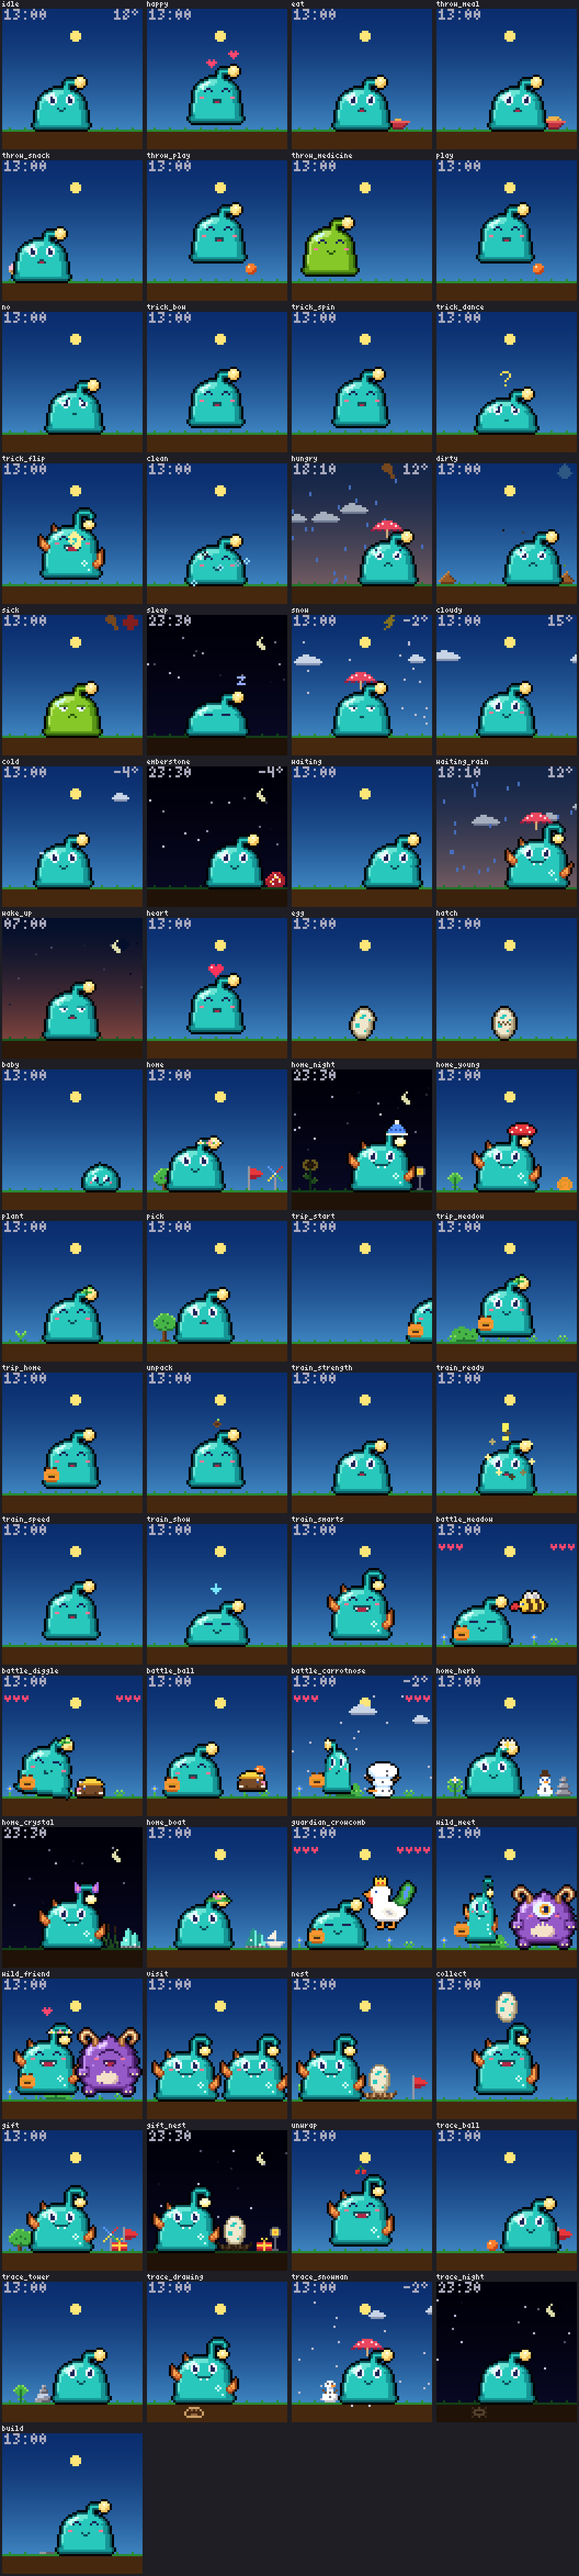
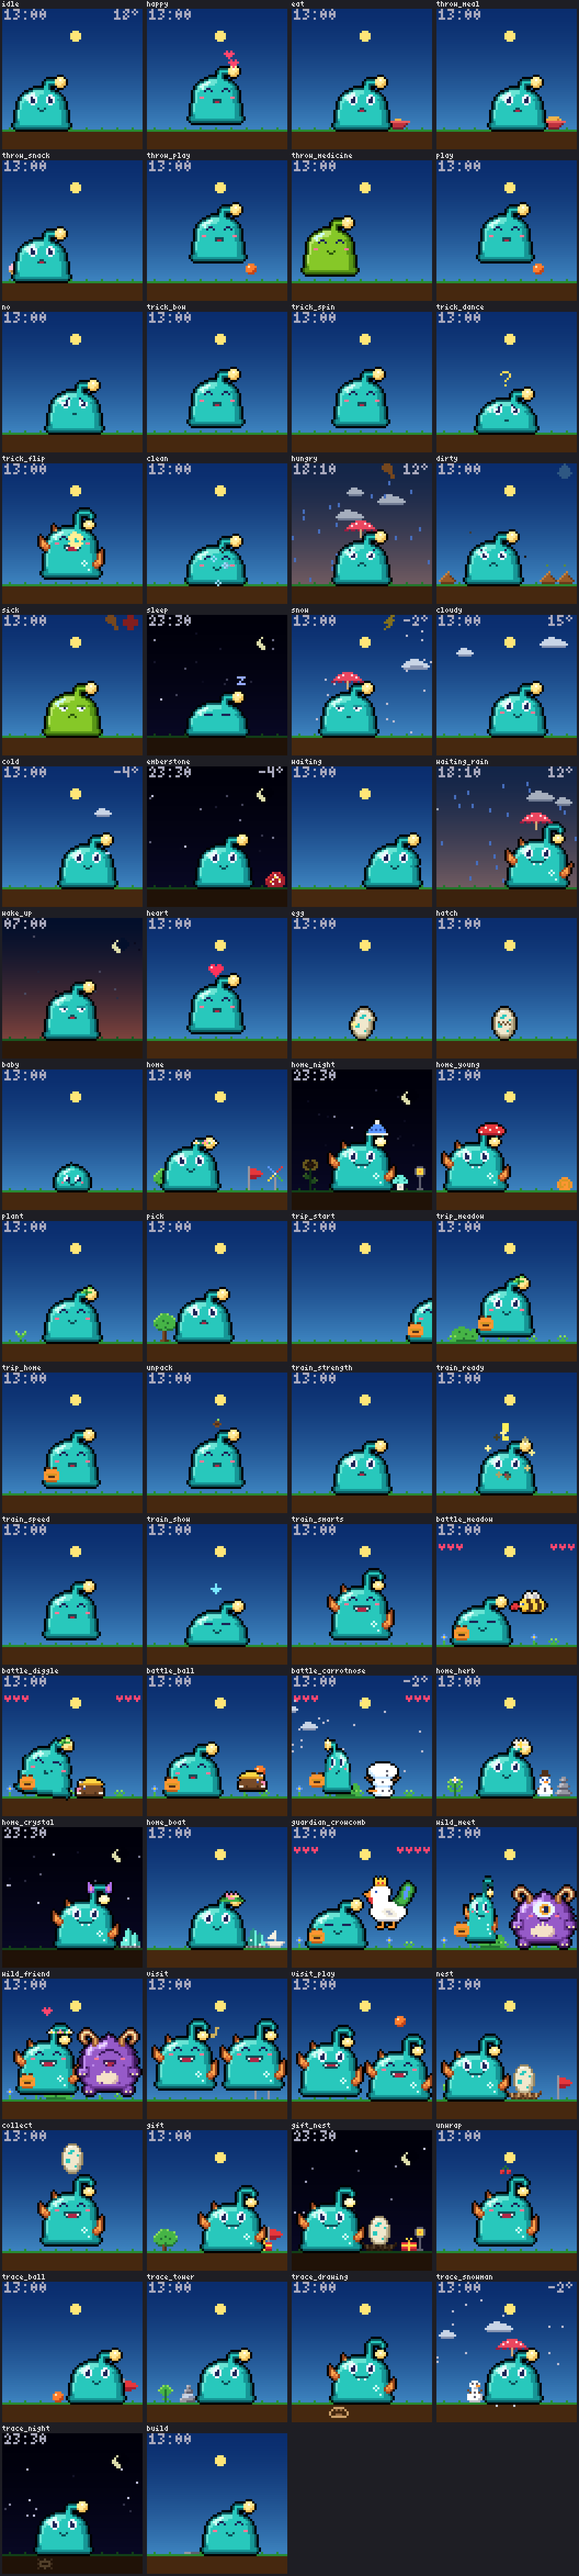
Friends play with the pet while they visit
A visit alternates games and rests: the two throw a ball to and fro, the
friend copies a trick the pet shows it (each in its own way), or they hop
in step and then by turns. The pet only joins in when it is in a decent
mood, awake and has nothing else to do. Presentation only; what counts for
the visit is unchanged.

Closes #19

Claude-Session: https://claude.ai/code/session_01AswPuzoMzgPvwzGscHXC9H

diff --git a/core/src/scene.ts b/core/src/scene.ts
@@ -106,6 +106,18 @@ const VISIT_PET_X = 2;
 const NEST_X = 40;
 const GIFT_X = 53; // what a friend has brought lies here, in front of the decorations, until it is unwrapped
 const VISIT_WALK = 3.0; // seconds it takes to hop in and out
+// While the friend is there, the two play now and then: a game, a rest standing together, the next
+// game. Only while the pet is in a decent mood, awake and has nothing else to do; otherwise the
+// friend just waits by its side. Which game comes when follows from when the friend came.
+const PLAY_GAMES = ["catch", "copy", "bounce"] as const;
+const PLAY_SECONDS = 24; // one game
+const PLAY_REST = 16; // in between, and before the first one
+const CATCH_HOLD = 0.6; // the ball rests on the catcher's head before it goes back
+const CATCH_FLIGHT = 1.2;
+const CATCH_HIGH = 12; // how much higher than its head the ball flies
+const COPY_TURN = TRICK_SHOW + 0.8; // the pet shows a trick, then the friend does it too
+const BOUNCE_BEAT = 0.6; // one hop
+const NOTE: Bitmap = [[255, 220, 120], ["..XX", "..X.", "..X.", "XXX.", "XX.."]];
 const HAT_SINK = 2; // a hat sits this many rows into the head
 // Trip: grass, soil, what stands along the path (null = nothing) and what passes by behind it, per area
 const TRAVEL: Record<string, readonly [Color, Color, readonly (string | null)[], string]> = {
@@ -460,8 +472,15 @@ interface Particle {
 
 /** An opponent: name, left edge, lift, turned away, hearts left, how often the pet can still be knocked over, look. */
 type Foe = [string, number, number, boolean, number | null, number | null, string | null];
-/** Another pet next to ours: species, left edge, lift, face, where it is heading (-1 left, 1 right, 0 it stays). */
-type Guest = [string, number, number, string, number?];
+/**
+ * Another pet next to ours: species, left edge, lift, face, where it is heading (-1 left, 1 right,
+ * 0 it stays), and while it plays, its body, how far it is turned and spun, and where it looks.
+ */
+type Guest = [string, number, number, string, number?, GuestMove?];
+type GuestMove = { body: string; turn: number | null; rotate: number; dx: number; lookLeft: boolean };
+
+/** A game with the visiting friend: which one, how far into it (seconds), and the trick to copy. */
+type Play = { game: (typeof PLAY_GAMES)[number]; e: number; trick: string | null };
 
 /** What the pet does in one frame: body animation, face, jump height, items. */
 interface Pose {
@@ -536,6 +555,8 @@ export class PetScene {
   private arriveFor: number | null = null;
   private readonly foeCache = new Map<string, Image>();
   private roundFor: string | null = null; // effects of a round in a scuffle only once
+  private play: Play | null = null; // the game with the visiting friend in this frame
+  private noteAt = 0; // the beat the last note of a game went up on
   private readonly clouds: [number, number, boolean][];
   private readonly stars: [number, number, number][];
 
@@ -690,6 +711,7 @@ export class PetScene {
       egg: null, eggT: t, item: view.activity_item, propAt: null, thrown: null,
       activity, pack: false, found: null, foe: null, wild: null,
     };
+    this.play = null;
     if (activity === "hatch") {
       return this.hatch(pose, view, t, now);
     }
@@ -736,8 +758,11 @@ export class PetScene {
       pose.dx = Math.trunc(t * 1.5) % 2 ? 1 : -1;
       pose.symbol = QUESTION;
     } else if (activity === "idle") {
-      const show = view.waiting ? null : this.showOff(view, t);
-      if (view.waiting) {
+      const play = this.play = this.playing(view, now);
+      const show = view.waiting || play ? null : this.showOff(view, t);
+      if (play) {
+        this.playAlong(pose, play, t);
+      } else if (view.waiting) {
         this.lookout(pose, view, t, dt);
       } else if (show) {
         this.trick(pose, show[0], show[1], true, t);
@@ -750,8 +775,8 @@ export class PetScene {
       if (mood === "tired" && Math.trunc(t) % 9 === 0) {
         pose.face = "yawn";
       }
-      pose.umbrella = !show && sky.precipitation(sky.codeOf(weather)) !== null;
-      if (view.cold && !show) {
+      pose.umbrella = !show && !play && sky.precipitation(sky.codeOf(weather)) !== null;
+      if (view.cold && !show && !play) {
         // it shivers
         pose.dx = Math.trunc(t * 8) % 2;
       }
@@ -1286,6 +1311,131 @@ export class PetScene {
     pose.wild = [trip.wild!, Math.round(x), Math.round(lift), face, heading];
   }
 
+  /**
+   * The game with the visiting friend going on right now, or null: during a rest, while the friend
+   * is still coming or about to leave, and while the pet isn't up to it or isn't next to it yet.
+   */
+  private playing(view: SceneView, now: number): Play | null {
+    const visit = view.visitor;
+    if (!visit || view.asleep || !isOneOf(view.mood, "normal", "happy") || Math.abs(this.x - VISIT_PET_X) > 0.5) {
+      return null;
+    }
+    const since = visit.age - VISIT_WALK;
+    const round = Math.floor(since / (PLAY_REST + PLAY_SECONDS));
+    const e = since - round * (PLAY_REST + PLAY_SECONDS) - PLAY_REST;
+    if (since < 0 || e < 0 || visit.left - VISIT_WALK < PLAY_SECONDS - e) {
+      return null; // a game is only started if there is time to finish it
+    }
+    // the visit's own order of the games, so that the next visit can start with another one
+    const came = Math.round((now - visit.age) / 10);
+    const games = PLAY_GAMES.filter((game) => game !== "copy" || view.tricks?.length);
+    const game = games[(came + round) % games.length];
+    const tricks = view.tricks ?? [];
+    const trick = game === "copy" ? tricks[(came + round + Math.floor(e / (2 * COPY_TURN))) % tricks.length] : null;
+    return { game, e, trick };
+  }
+
+  /** The pet's part of the game: it stays where it is, facing its friend. */
+  private playAlong(pose: Pose, play: Play, t: number): void {
+    this.facing = 1;
+    const { game, e } = play;
+    if (game === "catch") {
+      const turn = CATCH_HOLD + CATCH_FLIGHT;
+      const throws = Math.floor(e / turn);
+      const f = (e - throws * turn - CATCH_HOLD) / CATCH_FLIGHT; // < 0: somebody holds the ball
+      const petThrows = throws % 2 === 0;
+      const onHead = GROUND - this.petTop + 1;
+      const [from, to] = petThrows ? [this.x, VISITOR_X] : [VISITOR_X, this.x];
+      const ballX = (at: number) => Math.round(at + SPRITE / 2 - 2);
+      if (f < 0) {
+        pose.thrown = ["ball", ballX(from), onHead - 3];
+      } else {
+        pose.thrown = ["ball", ballX(from + (to - from) * f), Math.round(onHead + 4 * f * (1 - f) * CATCH_HIGH)];
+      }
+      const has = (f < 0) === petThrows; // the ball is on its head, or it has just thrown it
+      if (has && f < 0) {
+        Object.assign(pose, { body: "squash", face: "happy" });
+      } else if (!has && f > 0.75) {
+        Object.assign(pose, { body: "stretch", face: "eat_open", jump: 2 }); // catches it
+      } else {
+        Object.assign(pose, { body: f >= 0 && f < 0.15 ? "stretch" : "idle", face: "laugh" });
+      }
+    } else if (game === "copy") {
+      const into = e % (2 * COPY_TURN);
+      if (into < COPY_TURN) {
+        this.trick(pose, play.trick!, Math.min(into, TRICK_SHOW), true, t);
+      } else {
+        pose.face = "happy"; // watches its friend do it
+      }
+      this.facing = 1;
+      if (into >= 2 * COPY_TURN - 0.8) {
+        this.cheer(pose, t);
+      }
+    } else {
+      // hops in step, then taking turns, and a note goes up on every other beat
+      const beat = Math.floor(e / BOUNCE_BEAT);
+      const lift = Math.sin(((e % BOUNCE_BEAT) / BOUNCE_BEAT) * Math.PI);
+      const mine = e < PLAY_SECONDS / 2 || beat % 2 === 0;
+      pose.jump = mine ? lift * 6 : 0;
+      pose.body = pose.jump > 2 ? "stretch" : pose.jump > 0.5 ? "idle" : "squash";
+      pose.face = "laugh";
+      if (beat % 2 === 0 && beat !== this.noteAt) {
+        this.noteAt = beat;
+        this.particles.push({
+          sprite: NOTE, x: VISITOR_X - 4 + this.rng.uniform(-3, 3), y: GROUND - 26, vx: this.rng.uniform(-3, 3), vy: -6,
+          life: 1.4,
+        });
+      }
+    }
+  }
+
+  /** The friend's part of the game. */
+  private playGuest(species: string, play: Play, t: number): Guest {
+    const move: GuestMove = { body: "idle", turn: null, rotate: 0, dx: 0, lookLeft: true };
+    let face = "laugh";
+    let lift = 0;
+    const { game, e } = play;
+    if (game === "catch") {
+      const turn = CATCH_HOLD + CATCH_FLIGHT;
+      const throws = Math.floor(e / turn);
+      const f = (e - throws * turn - CATCH_HOLD) / CATCH_FLIGHT;
+      const has = (f < 0) === (throws % 2 === 1);
+      if (has && f < 0) {
+        [move.body, face] = ["squash", "happy"];
+      } else if (!has && f > 0.75) {
+        [move.body, face, lift] = ["stretch", "eat_open", 2];
+      } else if (f >= 0 && f < 0.15) {
+        move.body = "stretch";
+      }
+    } else if (game === "copy") {
+      const into = e % (2 * COPY_TURN);
+      if (into >= COPY_TURN) {
+        // the same trick, in its own way: the scene's facing is borrowed for it, as the friend faces left
+        const pose = { body: "idle", face: "happy", jump: 0, dx: 0, turn: null, rotate: 0,
+          form: ["adult", species], symbol: null } as unknown as Pose;
+        const facing = this.facing;
+        this.facing = -1;
+        this.trick(pose, play.trick!, Math.min(into - COPY_TURN, TRICK_SHOW), true, t);
+        this.facing = facing;
+        Object.assign(move, { body: pose.body, turn: pose.turn, rotate: pose.rotate, dx: pose.dx });
+        [face, lift] = [pose.face, pose.jump];
+        if (into >= 2 * COPY_TURN - 0.8 && this.rng.random() < 0.15) {
+          this.particles.push({
+            sprite: HEART, x: VISITOR_X - 2, y: GROUND - 22, vx: this.rng.uniform(-3, 3), vy: -8, life: 1.5,
+          });
+        }
+      } else {
+        face = "happy"; // watches
+      }
+    } else {
+      const beat = Math.floor(e / BOUNCE_BEAT);
+      const up = Math.sin(((e % BOUNCE_BEAT) / BOUNCE_BEAT) * Math.PI);
+      lift = e < PLAY_SECONDS / 2 || beat % 2 === 1 ? up * 6 : 0;
+      move.body = lift > 2 ? "stretch" : lift > 0.5 ? "idle" : "squash";
+    }
+    return [species, VISITOR_X, lift, face, 0, move];
+  }
+
   /** The friend that is visiting at home: it hops in from the right, stays, and hops out again. */
   private visitor(view: SceneView, t: number): Guest | null {
     const visit = view.visitor;
@@ -1297,6 +1447,9 @@ export class PetScene {
     if (coming < 1) {
       const heading = visit.age < VISIT_WALK ? -1 : 1;
       return [visit.species, Math.round(x), Math.round(Math.abs(Math.sin(t * 6)) * 3), "happy", heading];
+    }
+    if (this.play) {
+      return this.playGuest(visit.species, this.play, t);
     }
     const cheerful = isOneOf(view.mood, "normal", "happy") && !view.asleep;
     if (cheerful && this.rng.random() < 0.02) {
@@ -1310,13 +1463,24 @@ export class PetScene {
 
   /** Another pet next to ours: a wild one on a trip, or the friend that is visiting. */
   private drawGuest(img: Image, guest: Guest, t: number): void {
-    const [species, x, hop, face, heading = 0] = guest;
+    const [species, x, hop, face, heading = 0, move] = guest;
     const walking = heading !== 0 && this.walks("adult", species);
-    const [body, jump] = walking ? this.stride("adult", species, t) ?? ["idle", 0] : [hop > 1.5 ? "stretch" : "idle", hop];
+    const [body, jump] = move ? [move.body, hop]
+      : walking ? this.stride("adult", species, t) ?? ["idle", 0] : [hop > 1.5 ? "stretch" : "idle", hop];
     const lift = Math.round(jump);
-    const [sprite] = this.pet("adult", species, body, t, face,
-      { glow: this.night > 0.5, lookLeft: walking && heading < 0 });
-    img.paste(sprite, x - Math.floor((sprite.width - SPRITE) / 2), GROUND - SPRITE - lift);
+    let [sprite] = this.pet("adult", species, body, t, face,
+      { glow: this.night > 0.5, lookLeft: move ? move.lookLeft : walking && heading < 0 });
+    let px = x + (move?.dx ?? 0) - Math.floor((sprite.width - SPRITE) / 2);
+    let py = GROUND - SPRITE - lift;
+    if (move?.turn !== null && move?.turn !== undefined) {
+      sprite = turned(sprite, move.turn);
+    }
+    if (move?.rotate) {
+      sprite = spun(sprite, move.rotate);
+      px -= SPIN_PAD;
+      py -= SPIN_PAD;
+    }
+    img.paste(sprite, px, py);
   }
 
   /** Left edge of an opponent standing in the pet's way. */

diff --git a/core/test/scene.test.ts b/core/test/scene.test.ts
@@ -275,6 +275,64 @@ test("Flicker and Lumoth hop, Cyclopuff and Sneezle walk, Grumpcap walks and hop
   assert.ok(lifted("grumpcap") > 0 && lifted("grumpcap") < 8); // one hop in 2.5 seconds
 });
 
+/**
+ * A whole visit, ten frames per second, with the pet already by the friend's side. Returns the
+ * game of each frame (null: none) and the frames themselves, every `keep`th.
+ */
+function visit(changes: Partial<SceneView>, from = 0, seconds = 600, keep = 0): [(string | null)[], Image[]] {
+  const stage = scene();
+  stage.x = stage.targetX = 2;
+  const start = DAY.getTime() / 1000;
+  const games: (string | null)[] = [];
+  const images: Image[] = [];
+  for (let i = from * 10; i < seconds * 10; i++) {
+    const age = i / 10;
+    const view = { ...BASE, stage: "adult", species: "angloop", mood: "happy", ...changes,
+      visitor: { species: "cyclopuff", age, left: 600 - age } };
+    const [image] = stage.render(view, null, new Date((start + age) * 1000), 1 + age);
+    games.push((stage as unknown as { play: { game: string } | null }).play?.game ?? null);
+    if (keep && i % keep === 0) {
+      images.push(image);
+    }
+  }
+  return [games, images];
+}
+
+test("while a friend visits, the two play now and then: catch, copying a trick, hopping in step", () => {
+  const [games] = visit({ tricks: ["flip"] });
+  const played = games.filter((game) => game).length;
+  // a game, then a rest two thirds as long: they play for more than half of the visit
+  assert.ok(played > 0.5 * games.length && played < 0.62 * games.length, `${played}`);
+  assert.deepEqual(new Set(games), new Set([null, "catch", "copy", "bounce"]));
+  assert.ok(games.slice(0, 190).every((game) => game === null)); // hopping in, then a rest first
+  assert.ok(games.slice(-30).every((game) => game === null)); // nothing it couldn't finish before leaving
+  // without a trick to show there is nothing to copy
+  assert.ok(!visit({ tricks: [] })[0].includes("copy"));
+});
+
+test("a friend only plays with a pet in a decent mood, that is awake and has nothing else to do", () => {
+  for (const changes of [{ mood: "sad" }, { mood: "hungry" }, { asleep: true }, { activity: "eat" }] as Partial<SceneView>[]) {
+    assert.ok(visit(changes, 0, 120)[0].every((game) => game === null), JSON.stringify(changes));
+  }
+});
+
+test("a game shows on the panel: the friend moves along, unlike while they rest", () => {
+  // the friend's half of the panel above the ground, one frame a second
+  const [games, images] = visit({ tricks: ["flip"] }, 0, 300, 10);
+  const moving = (i: number) => {
+    let count = 0;
+    for (let y = STATUS_HEIGHT; y < GROUND; y++) {
+      for (let x = 33; x < 64; x++) {
+        const at = (y * 64 + x) * 4;
+        count += [0, 1, 2].some((c) => images[i].data[at + c] !== images[i - 1].data[at + c]) ? 1 : 0;
+      }
+    }
+    return count;
+  };
+  const during = images.map((_, i) => i).filter((i) => i && games[i * 10] && games[(i - 1) * 10]);
+  assert.ok(during.filter((i) => moving(i) > 20).length > during.length / 2);
+});
+
 test("the app icon", () => {
   const stage = scene();
   const icon = stage.icon(160);

diff --git a/tools/pet_preview.ts b/tools/pet_preview.ts
@@ -46,7 +46,7 @@ const SHOWN_ADULT = "angloop";
 const SHOWN_AREA = AREAS[0];
 const SPOILERS = ["hint", "evolve", "cyclopuff", "angloop_hint", "sneezle", "flicker", "flicker_sad", "grumpcap", "lumoth", "ember_egg",
   "ember_hatch", "ember_baby", "cindlet", "cindlet_hint", "cindlet_sick", "ember_evolve", "lanternling",
-  "lanternling_sleep", "lanternling_trick", "flarelet", "flarelet_hat", "egg_found", "wild_shrug", "visit_night",
+  "lanternling_sleep", "lanternling_trick", "flarelet", "flarelet_hat", "egg_found", "wild_shrug", "visit_copy", "visit_bounce", "visit_night",
   "nest_ember", "stone_egg", "stone_baby", "pebblet", "pebblet_hint", "pebblet_hat", "pebblet_skip", "glimmerock",
   "glimmerock_night", "glimmerock_shine", "bouldergrin", "bouldergrin_sad", "bouldergrin_sleep", "bouldergrin_toss", "wild_stream", "visit_stone",
   "wild_forest", "visit_fox", "fox_egg", "fox_hatch", "fox_baby", "kitlet", "kitlet_hint", "kitlet_hat", "kitlet_sick",
@@ -231,6 +231,16 @@ const SCENES: Record<string, Scene> = {
     stage: "adult", species: "angloop", mood: "happy", deco: ["flag", "windmill"],
     visitor: { species: "angloop", age: 60, left: 300 },
   }, DAY, null],
+  // while the friend is there, the two play: catch, copying a trick, hopping in step
+  visit_play: [{
+    stage: "adult", species: "angloop", mood: "happy", visitor: { species: "angloop", age: 22, left: 500 },
+  }, new Date(2026, 9, 12, 13, 0, 17), null],
+  visit_copy: [{
+    stage: "adult", species: "flicker", mood: "happy", tricks: ["flip"], visitor: { species: "sneezle", age: 22, left: 500 },
+  }, new Date(2026, 9, 12, 13, 0, 0), null],
+  visit_bounce: [{
+    stage: "adult", species: "bouldergrin", visitor: { species: "cyclopuff", age: 22, left: 500 },
+  }, new Date(2026, 9, 12, 13, 0, 7), null],
   visit_night: [{ stage: "adult", species: "flicker", visitor: { species: "lumoth", age: 1.5, left: 500 } }, NIGHT,
     null],
   nest: [{
@@ -357,6 +367,10 @@ function frames(name: string, count: number, step = 0.1, spoilerFree = false): I
   for (let i = 0; i < count; i++) {
     if (view.trip) { // what happened on the trip gets older, the way it does on the Pi
       view.trip = { ...view.trip, event_age: changes.trip!.event_age + i * step };
+    }
+    if (view.visitor) { // the friend's visit goes on as well
+      const { age, left } = changes.visitor!;
+      view.visitor = { ...view.visitor, age: age + i * step, left: left - i * step };
     }
     images.push(scene.render(view, weather, new Date(now.getTime() + Math.round(i * step * 1000)), 1 + i * step)[0]);
   }

diff --git a/docs/gameplay.md b/docs/gameplay.md
@@ -350,6 +350,14 @@ and leaves again, once or twice a day while the pet is at home and awake. A
 visit counts if the pet is in a decent mood when the friend leaves (mood 50
 or more); it cheers the pet up a little, too.
 
+While the friend is there, the two **play**: a game, a little rest side by
+side, the next game. They throw a ball to and fro, the friend copies a trick
+the pet shows it (each in its own way), or they hop in step and then by turns.
+The pet only joins in when it is in a decent mood, awake and not busy with
+something else; otherwise the friend waits by its side. Playing is something
+to watch; what counts for the visit is still the pet's mood when the friend
+leaves.
+
 Now and then a visit that counts brings a **gift**. The friend leaves it on
 the ground, wrapped, and it stays there until you tap **Unwrap the gift**; no
 new one comes while it is lying there. Mostly there is a fruit in it, of the

diff --git a/README.md b/README.md
@@ -27,8 +27,9 @@ a day and also tells you the time and the weather.
   home, and the diary keeps every trip. Five areas open up one after the other, each one past a guardian, and
   one of the guardians keeps a rare egg that something else hatches from.
 - **It makes friends.** A grown-up pet can impress a wild pet with its tricks.
-  The friend comes to visit, brings a gift now and then, and in time the two
-  lay an egg that passes a part of your pet's training on to the next one.
+  The friend comes to visit and plays with it, brings a gift now and then, and
+  in time the two lay an egg that passes a part of your pet's training on to
+  the next one.
 - **It is forgiving.** The pet never dies. Neglect makes it hungry, sad or
   sick, and that can always be fixed.
 - **Quiet at night.** The panel dims or switches off in the hours you choose,
